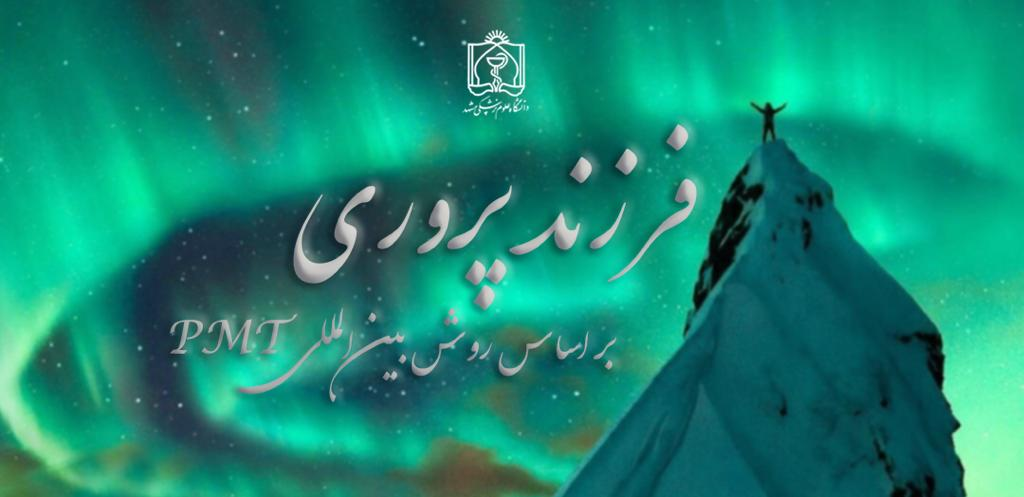
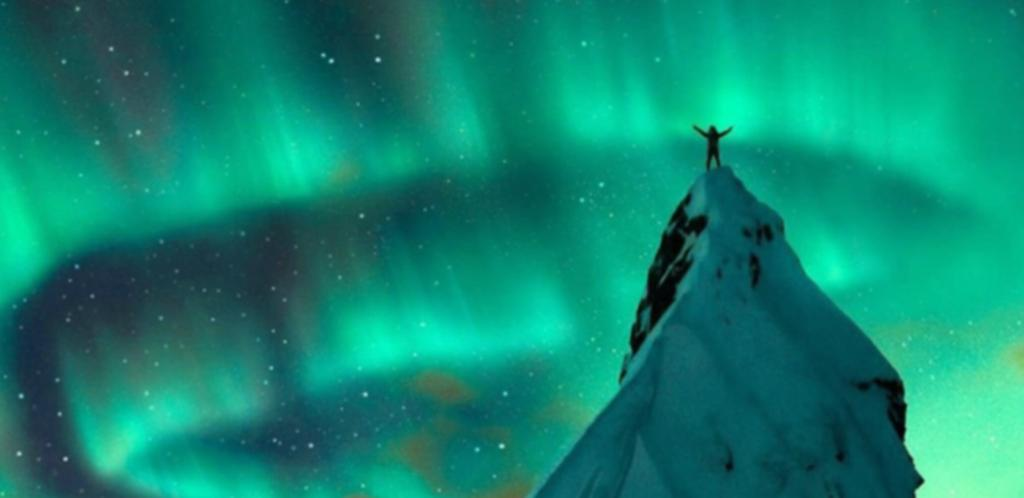
seven_commit

diff --git a/Farzand_Parvari_app/templates/base.html b/Farzand_Parvari_app/templates/base.html
@@ -144,7 +144,7 @@ $(document).ready(function () {
         <h4 class="title">تماس با ما </h4>
         <ul class="contact_details">
           <li><i class="fa fa-home"></i> خراسان رضوی - مشهد مقدس - خیابان ابن سینا - مقابل سه راه ادبیات - نبش ابن سینا 2/3 - ساختمان 46 - بلوک 1 - طبقه 3- واحد 11  </li>
-          <li><i class="fa fa-phone-square"></i> +985138481070</li>
+          <li><i class="fa fa-phone-square"></i> 985138481070+</li>
           <li><i class="fa fa-envelope-o"></i> info@farzand-parvari.ir</li>
 
         </ul>

diff --git a/Farzand_Parvari_app/templates/index.html b/Farzand_Parvari_app/templates/index.html
@@ -1,12 +1,12 @@
 {% extends "base.html" %}
 {% load static %}
 {% block content %}
-  <section id="intro" style="height: 320px">
+  <section id="intro">
     <div class="container">
       <div class="ror">
         <div class="col-md-8 col-md-offset-2">
-          <h1> </h1>
-          <p></p>
+          <h1> فرزند پروری</h1>
+          <p>بر اساس روش بین المللی PMT</p>
         </div>
       </div>
     </div>

diff --git a/Farzand_Parvari_app/static/css/style.css b/Farzand_Parvari_app/static/css/style.css
@@ -478,7 +478,7 @@ body.nobg .section1 {
 }
 
 #intro {
-  background: url(../img/intro-bg-1.jpg) center center no-repeat fixed;
+  background: url(../img/intro-bg.jpg) center center no-repeat fixed;
   background-size: cover;
   padding: 80px 0;
   text-align: center;

diff --git a/static/css/style.css b/static/css/style.css
@@ -478,7 +478,7 @@ body.nobg .section1 {
 }
 
 #intro {
-  background: url(../img/intro-bg-1.jpg) center center no-repeat fixed;
+  background: url(../img/intro-bg.jpg) center center no-repeat fixed;
   background-size: cover;
   padding: 80px 0;
   text-align: center;
